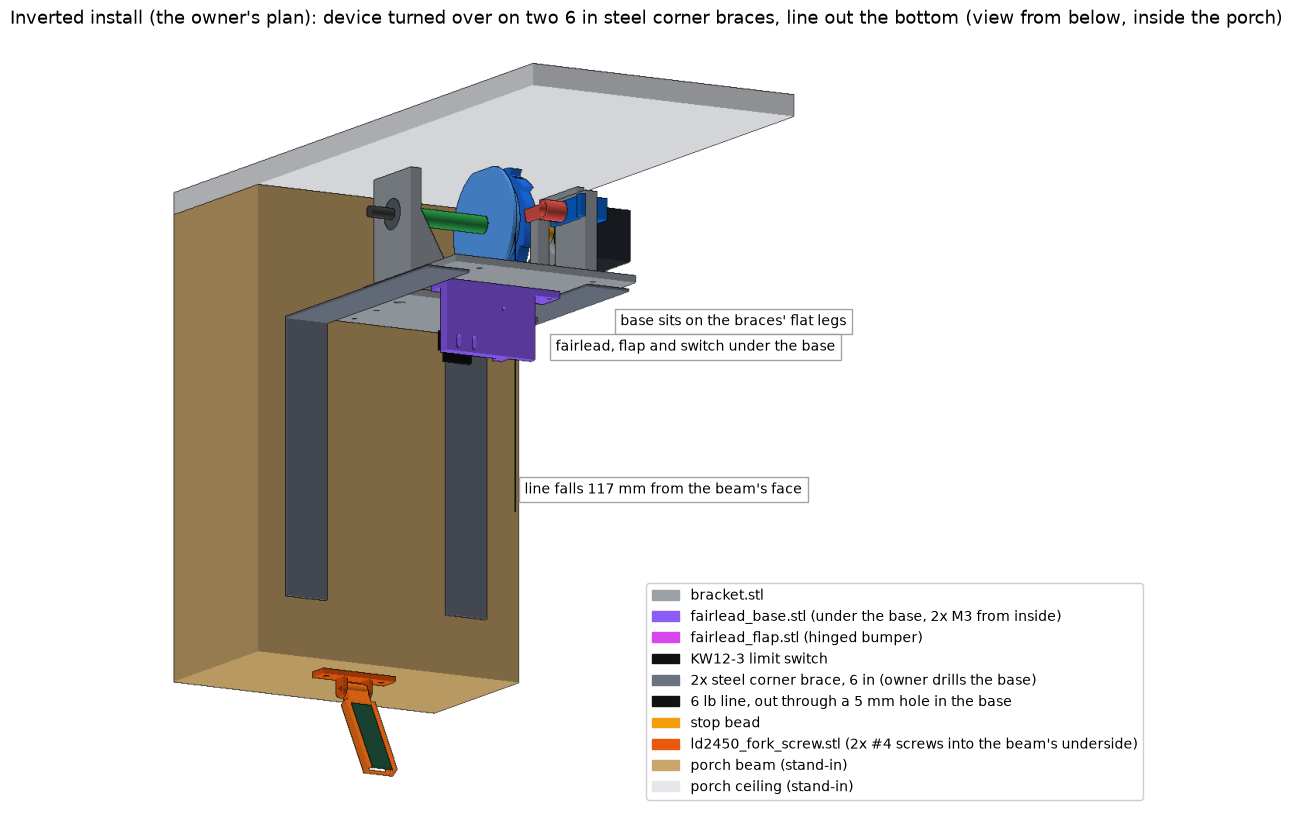
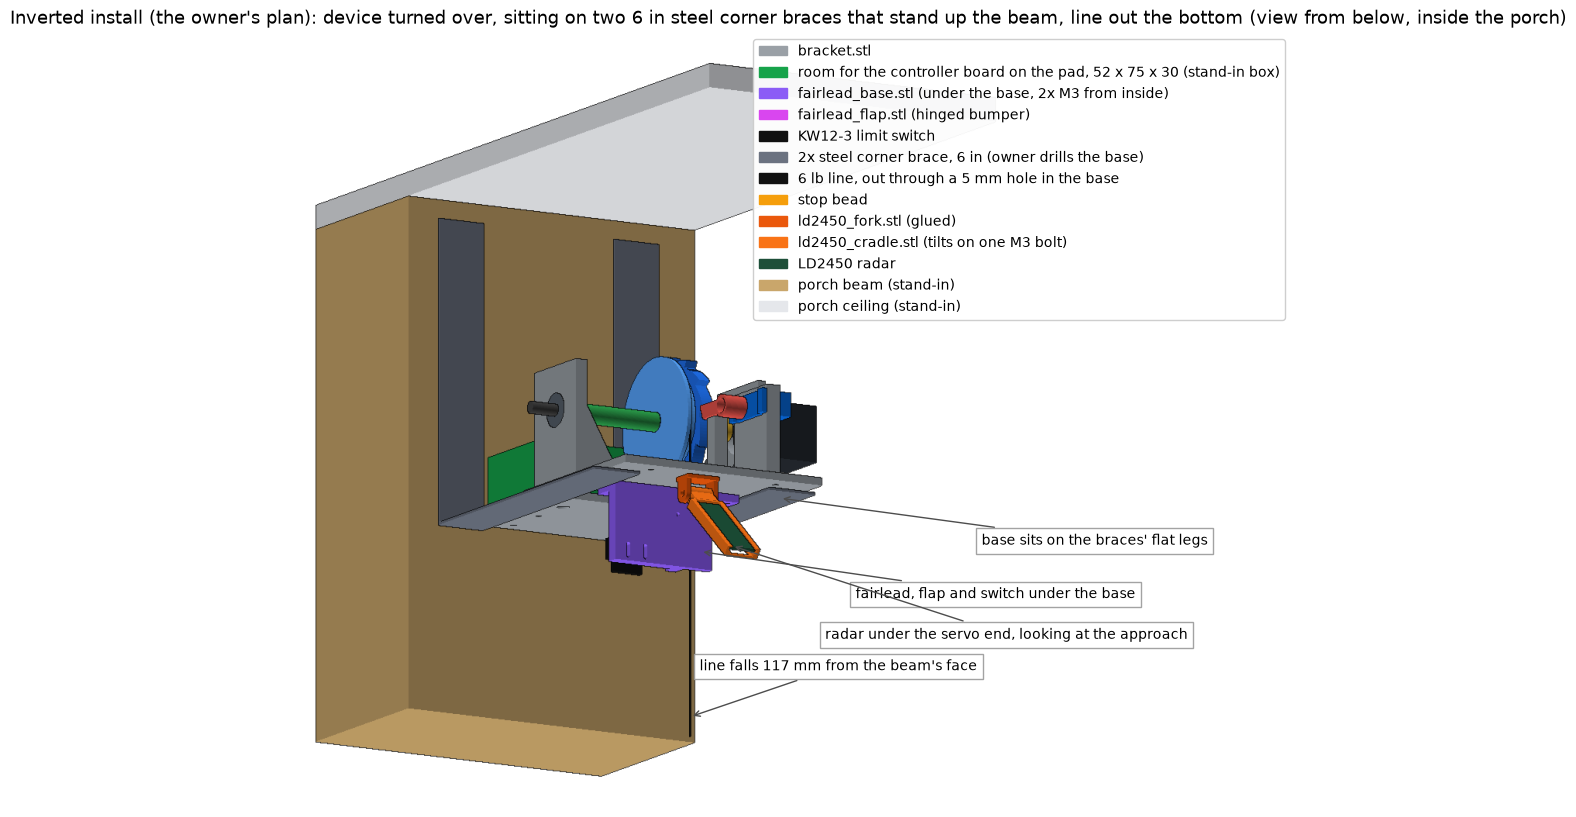
Inverted mockup, owner's corrections: radar on the device under the servo end, braces stand up the beam (base 160 below the ceiling), electronics room checked on the pad, labels point at their parts

Changed region(s): [[0.0, 0.0, 1.0, 0.9792], [0.6192, 0.6426, 0.774, 0.6732]]

diff --git a/cad/inverted.py b/cad/inverted.py
@@ -10,7 +10,7 @@ base, which is now the floor side.
 What is new:
   bracket_inverted   the printed bracket with 5 holes the owner drills: 5 mm for the line at
                      (x 25, z 45); 2x 3.4 at (x 32, z 28) and (x 32, z 83) for the fairlead block;
-                     nothing else. (The radar goes under the beam, so no holes for it.)
+                     nothing else. (The radar fork is glued, so no holes for it.)
   fairlead_base      the fairlead + flap hard stop + KW12-3 switch plate, as a block on the base's
                      OUTER face at the line. Built from doc 09's geometry moved by one rigid
                      transform T (180 degrees about z, then +69 in y): the same flared bore, the
@@ -18,8 +18,14 @@ What is new:
                      Two M3 screws from inside the base thread into 2.5 pilots.
   corner braces      2x steel L brackets, 6 in legs, 1 in wide (stand-ins for pictures and clash
                      checks, no holes: the owner drills the base to the braces' own holes, 2026-09-27),
-                     at the base's ends, vertical legs screwed to the beam.
-  radar              ld2450_fork_screw (cad/wall_mount.py) under the beam, looking out and down.
+                     at the base's ends. The owner's orientation (2026-09-27): the flat leg under the
+                     base, the other leg standing UP the beam's face beside the device, screwed to it.
+  radar              part of the device (owner 2026-09-27): the same ld2450_fork, cradle and radar,
+                     turned over and glued under the base at the servo end, looking back toward the
+                     beam (the approach) and down, under the fairlead block.
+  electronics        the controller board stays where it is in the ceiling design: on the pad, the
+                     base's device side at the beam end, now facing up. A 52 x 75 x 30 stand-in box
+                     is clash-checked.
 
 Coordinates: the device's own frame from generate.py (y = 0 the base's outer face, +y INTO the
 device). In the porch, +y is UP. The ceiling is at y = CEILING_Y above the device's top; the beam's
@@ -43,11 +49,12 @@ BRACE_LEG, BRACE_W, BRACE_T = 152.0, 25.0, 1.5  # 6 in x 1 in steel corner brace
 BEAM_GAP = 4.0                       # pad edge (x -88) to the beam's face
 X_BEAM = -88.0 - BEAM_GAP            # -92
 DEVICE_TOP = 62.0                    # bearing plate top; the tallest thing above the base
-CEILING_Y = DEVICE_TOP + 8.0         # base sits 70 below the ceiling
+CEILING_Y = BRACE_LEG + 8.0          # the braces' upright legs stand under the ceiling: base 160 below it
 BEAM_DEPTH = 254.0
 BEAM_BOTTOM_Y = CEILING_Y - BEAM_DEPTH   # -184
-RADAR_X_IN = 25.0
-RADAR_TILT = 30.0
+RADAR_TILT = 50.0                    # doc 03's tilt, below level; the cradle adjusts
+RADAR_SHIFT = (130.0, 4.0)           # after turning over: fork plate from x -74..-62 to x 56..68, glue face onto y 0
+PCB_BOX = (-88.0, -36.0, 4.0, 34.0, 18.0, 93.0)   # electronics stand-in on the pad (x, y, z ranges)
 
 # T: doc 09's fairlead geometry (line at x -25, bore y 69..78.5, flap at y 84 below it) moved to
 # the base's outer face at x +25: 180 degrees about z (x -> -x, y -> -y), then y + 69 so the bore's
@@ -113,20 +120,25 @@ def corner_braces():
     for i, zc in enumerate(BRACE_Z):
         z0, z1 = zc - BRACE_W / 2, zc + BRACE_W / 2
         horiz = G.bx(X_BEAM, X_BEAM + BRACE_LEG, -BRACE_T, 0, z0, z1)
-        vert = G.bx(X_BEAM, X_BEAM + BRACE_T, -BRACE_LEG, 0, z0, z1)
+        vert = G.bx(X_BEAM, X_BEAM + BRACE_T, -BRACE_T, BRACE_LEG - BRACE_T, z0, z1)   # stands UP the beam beside the device
         out[f"brace_{i}"] = G.U(horiz, vert)
     return out
 
 
-def radar_under_beam(tilt=RADAR_TILT):
-    """Fork with screw holes on the beam's underside, looking toward the approach (-x) and down (-y here)."""
+def radar_on_base(tilt=RADAR_TILT):
+    """The ceiling design's fork, cradle and radar turned over (180 degrees about z) and moved under the
+    base's servo end: glued to the base's outer face, looking toward the beam (-x) and down (-y)."""
+    import sensor_mount as S
     R = trimesh.transformations.rotation_matrix(math.pi, [0, 0, 1])
     out = {}
-    for k, m in (("ld2450_fork_screw", WM.ld2450_fork_screw()), ("ld2450_cradle", __import__("sensor_mount").ld2450_cradle(tilt)),
-                 ("ld2450_radar", __import__("sensor_mount").ld2450_board(tilt))):
-        mm = m.copy(); mm.apply_transform(R)
-        mm.apply_translation([X_BEAM - RADAR_X_IN + 68.0, BEAM_BOTTOM_Y + 4.0, 0]); out[k] = mm   # rotated pivot at x -68, plate face y -4
+    for k, m in (("ld2450_fork", S.ld2450_fork()), ("ld2450_cradle", S.ld2450_cradle(tilt)), ("ld2450_radar", S.ld2450_board(tilt))):
+        mm = m.copy(); mm.apply_transform(R); mm.apply_translation([RADAR_SHIFT[0], RADAR_SHIFT[1], 0]); out[k] = mm
     return out
+
+
+def pcb_box():
+    x0, x1, y0, y1, z0, z1 = PCB_BOX
+    return G.bx(x0, x1, y0, y1, z0, z1)
 
 
 def line_and_bead(drop=120.0):
@@ -139,7 +151,7 @@ def assembly_inverted():
     A = {k: v for k, v in G.assembly().items() if k not in ("bracket", "fairlead_body", "fairlead_flap", "switch_kw12") and not k.startswith("ld2450")}
     A["bracket"] = bracket_inverted()
     A["fairlead_base"] = fairlead_base(); A["fairlead_flap"] = flap_installed(); A["switch_kw12"] = switch_installed()
-    A.update(corner_braces()); A.update(radar_under_beam())
+    A.update(corner_braces()); A.update(radar_on_base()); A["electronics"] = pcb_box()
     return A
 
 
@@ -163,14 +175,26 @@ if __name__ == "__main__":
     print(f"mounting face is one plane at y 0: {abs(body.bounds[1][1]) < 0.01} (nothing above y 0; contact area {body.area_faces[at0].sum():.0f} mm2)")
     A = assembly_inverted()
     print("--- clash check, overlap volume in mm3 (none listed = clear) ---")
-    new = ["fairlead_base", "fairlead_flap", "switch_kw12", "brace_0", "brace_1", "ld2450_fork_screw", "ld2450_cradle", "ld2450_radar"]
+    new = ["fairlead_base", "fairlead_flap", "switch_kw12", "brace_0", "brace_1", "ld2450_fork", "ld2450_cradle", "ld2450_radar", "electronics"]
     bad = False
     for k in new:
         for j, part in A.items():
-            if j == k or {k, j} <= {"fairlead_flap", "switch_kw12"}: continue      # the roller rests on the flap tail by design
+            if j == k or {k, j} <= {"fairlead_flap", "switch_kw12"} or {k, j} <= {"ld2450_fork", "ld2450_cradle", "ld2450_radar"}: continue   # roller on flap tail; radar sits in its cradle
             v = G.I(A[k], part).volume
             if v > 0.5: print(f"CLASH {k} x {j}: {v:.1f}"); bad = True
-    if not bad: print("block, flap, switch, braces and radar clear every part")
+    if not bad: print("block, flap, switch, braces, radar and the 52 x 75 x 30 electronics box clear every part")
+    # radar view: rays over +-60 across and +-35 along the board from its centre; what share hits the device or its braces
+    Rb = A["ld2450_radar"]; t = math.radians(RADAR_TILT)
+    nb = np.array([-math.cos(t), -math.sin(t), 0.0]); ab = np.array([math.sin(t), -math.cos(t), 0.0]); zb = np.array([0, 0, 1.0])
+    c = Rb.bounds.mean(0) + nb * 2.0
+    solid = G.U(*[m for k2, m in A.items() if not k2.startswith("ld2450") and k2 != "electronics"])
+    dirs = [math.cos(math.radians(e)) * (math.cos(math.radians(a2)) * nb + math.sin(math.radians(a2)) * zb) + math.sin(math.radians(e)) * ab
+            for a2 in range(-60, 61, 5) for e in range(-35, 36, 5)]
+    dirs = np.array(dirs); hit = solid.ray.intersects_any(np.repeat([c], len(dirs), 0), dirs)
+    core = [abs(a2) <= 20 and abs(e) <= 15 for a2 in range(-60, 61, 5) for e in range(-35, 36, 5)]
+    print(f"radar view blocked by the device: {100 * hit.mean():.0f}% of the full cone, {100 * hit[core].mean():.0f}% of the middle (+-20 by +-15)")
+    yb = c[1] + nb[1] * (X_BEAM - c[0]) / nb[0]
+    print(f"radar centre line reaches the beam's face {CEILING_Y - yb:.0f} below the ceiling (beam bottom edge {BEAM_DEPTH:.0f}): {'passes under the beam' if CEILING_Y - yb > BEAM_DEPTH else 'HITS the beam'}")
     path = G.vcyl(1.0, 100, -60, LINE_X, LINE_Z)                                    # 2 mm rod from the barrel down past the flap
     lb, lf, lk = G.I(path, body).volume, G.I(path, flap).volume, G.I(path, A["bracket"]).volume
     print(f"line path clear through the base hole: {lk < 0.01} ({lk:.2f}), the block's bore: {lb < 0.01} ({lb:.2f}), the flap slot: {lf < 0.01} ({lf:.2f})")

diff --git a/cad/render.py b/cad/render.py
@@ -14,7 +14,7 @@ COL = {"bracket": "#9aa0a6", "spool_ratchet": "#1f6feb", "spool_body": "#58a6ff"
        "wall_mount": "#b45309", "ld2450_fork_screw": "#ea580c", "beam": "#c9a66b", "ceiling": "#e5e7eb",
        "bolt": "#57606a", "nut": "#374151", "screw": "#8a6d3b",
        "hinge_plate": "#b45309", "hinge_clip": "#d97706", "pin": "#57606a", "tie_bar": "#92400e", "strut": "#f59e0b",
-       "fairlead_base": "#8b5cf6", "brace": "#6b7280", "line": "#111111", "bead": "#f59e0b"}
+       "fairlead_base": "#8b5cf6", "brace": "#6b7280", "line": "#111111", "bead": "#f59e0b", "electronics": "#16a34a"}
 LABEL = {"bracket": "bracket.stl", "spool_ratchet": "spool_ratchet.stl", "spool_body": "spool_body.stl + HF0612",
          "fairlead_body": "fairlead_body.stl", "fairlead_flap": "fairlead_flap.stl (hinged bumper)",
          "switch_kw12": "KW12-3 limit switch", "finger": "finger.stl on the SG90 spline", "rod_6mm": "6 mm rod, 100 mm",
@@ -28,7 +28,8 @@ LABEL = {"bracket": "bracket.stl", "spool_ratchet": "spool_ratchet.stl", "spool_
          "pin": "pins: 2x M3 x 25 (hinge), 4x M3 x 20 (struts), nuts", "tie_bar": "tie_bar.stl (2x M3 through the base's x 65 holes)",
          "strut": "strut.stl x2 (the 45 degree bar, pushed)",
          "fairlead_base": "fairlead_base.stl (under the base, 2x M3 from inside)", "brace": "2x steel corner brace, 6 in (owner drills the base)",
-         "line": "6 lb line, out through a 5 mm hole in the base", "bead": "stop bead"}
+         "line": "6 lb line, out through a 5 mm hole in the base", "bead": "stop bead",
+         "electronics": "room for the controller board on the pad, 52 x 75 x 30 (stand-in box)"}
 
 def rview(m):
     # render world: X = x, Y = z (rod), Z = -y (floor is down, ceiling mount on top)
@@ -38,13 +39,16 @@ def save(img, name, title, labels=(), keys=(), loc="upper right"):
     import matplotlib.patches as mp
     fig, ax = plt.subplots(figsize=(img.shape[1] / 100, img.shape[0] / 100 + 0.5))
     ax.imshow(img); ax.set_axis_off(); ax.set_title(title, fontsize=13)
-    for (x, y, t) in labels: ax.text(x, y, t, fontsize=10, bbox=dict(fc="white", ec="0.6", alpha=0.9))
+    for lab in labels:
+        x, y, t = lab[:3]
+        if len(lab) == 5: ax.annotate(t, xy=lab[3:], xytext=(x, y), fontsize=10, bbox=dict(fc="white", ec="0.6", alpha=0.9), arrowprops=dict(arrowstyle="->", color="0.3"))   # label with a pointer to the part
+        else: ax.text(x, y, t, fontsize=10, bbox=dict(fc="white", ec="0.6", alpha=0.9))
     if keys:
         ax.legend(handles=[mp.Patch(color=COL[k], label=LABEL[k]) for k in keys], loc=loc, fontsize=10, framealpha=0.95)
     fig.savefig(os.path.join(IMG, name), dpi=100, bbox_inches="tight"); plt.close(fig)
 
-def lbl(proj, pt, dx, dy, text):
-    x, y, _ = proj(np.array([pt])); return (x[0] + dx, y[0] + dy, text)
+def lbl(proj, pt, dx, dy, text, arrow=False):
+    x, y, _ = proj(np.array([pt])); return (x[0] + dx, y[0] + dy, text) + ((x[0], y[0]) if arrow else ())
 
 def assembly_png():
     A = G.assembly()
@@ -206,17 +210,18 @@ def wall_exploded_png():
          (), keys=["wall_mount", "nut", "bolt", "screw", "bracket"])
 
 def inverted_png():
-    """The owner's inverted install: device turned over on two 6 in corner braces, line out through the base."""
+    """The owner's inverted install: device turned over on two 6 in corner braces standing up the beam, line out through the base."""
     import inverted as INV
     A = INV.assembly_inverted(); A.update(INV.line_and_bead())
-    A.update({k: G.I(m, G.bx(-200, 250, -300, 100, -25, 135)) for k, m in INV.porch().items()})   # a short length of beam and ceiling, so the device reads
+    A.update({k: G.I(m, G.bx(-200, 250, -300, 200, -25, 135)) for k, m in INV.porch().items()})   # a short length of beam and ceiling, so the device reads
     key = lambda k: "brace" if k.startswith("brace") else k
     img, proj = raster.render([(INV.view_inv(m), COL[key(k)]) for k, m in A.items()], elev=-12, azim=-30, W=1300, H=1000)
-    labels = [lbl(proj, (INV.LINE_X, -INV.LINE_Z, -110), 12, 0, f"line falls {INV.LINE_X - INV.X_BEAM:.0f} mm from the beam's face"),
-              lbl(proj, (INV.X_BEAM + 140, -INV.BRACE_Z[0], -2), 30, 40, "base sits on the braces' flat legs"),
-              lbl(proj, (INV.LINE_X + 10, -INV.LINE_Z, -30), 40, 10, "fairlead, flap and switch under the base")]
-    save(img, "inverted_install.png", "Inverted install (the owner's plan): device turned over on two 6 in steel corner braces, line out the bottom (view from below, inside the porch)",
-         labels, keys=["bracket", "fairlead_base", "fairlead_flap", "switch_kw12", "brace", "line", "bead", "ld2450_fork_screw", "beam", "ceiling"], loc="lower right")
+    labels = [lbl(proj, (INV.LINE_X, -INV.LINE_Z, -110), 12, -60, f"line falls {INV.LINE_X - INV.X_BEAM:.0f} mm from the beam's face", True),
+              lbl(proj, (INV.X_BEAM + 140, -INV.BRACE_Z[0], -2), 260, 60, "base sits on the braces' flat legs", True),
+              lbl(proj, (INV.LINE_X + 10, -INV.LINE_Z, -30), 200, 60, "fairlead, flap and switch under the base", True),
+              lbl(proj, (95, -62, -40), 120, 120, "radar under the servo end, looking at the approach", True)]
+    save(img, "inverted_install.png", "Inverted install (the owner's plan): device turned over, sitting on two 6 in steel corner braces that stand up the beam, line out the bottom (view from below, inside the porch)",
+         labels, keys=["bracket", "electronics", "fairlead_base", "fairlead_flap", "switch_kw12", "brace", "line", "bead", "ld2450_fork", "ld2450_cradle", "ld2450_radar", "beam", "ceiling"], loc="upper right")
 
 if __name__ == "__main__":
     base_png(); lock_png(); assembly_png(); exploded_png(); steps_png(); fairlead_png(); fairlead_exploded_png(); wall_png(); inverted_png()

diff --git a/docs/handoff_inverted_mount.md b/docs/handoff_inverted_mount.md
@@ -6,7 +6,12 @@
 
 Steps 1 and 2 below are done (2026-09-27). `python inverted.py` passes every check: block watertight, mounting face one plane at y 0, no clashes (braces included), line path clear through the base hole, bore and flap slot, spool clearance 0, hard stop 14.75 degrees, roller push 4.33 (needs 3.4), both screw heads clear. Two fixes were needed: the braces became 6 in stand-ins at z 8 and z 106 with no holes, and the fairlead block was trimmed to z 24 to 93 (far rib dropped) to clear them; the face check was rewritten because it wrongly counted the block's own inner steps as mounting faces. `render.inverted_png()` makes the picture above. The full rebuild (`tools\regen_cad.ps1`) was not run: `generate.py` is untouched, and it rewrites every image while another session was live.
 
-Owed from the owner: approve the mockup (then step 3), and say where along the base the two braces go (drawn at the ends, z 8 and z 106; the 106 one hangs 8 mm past the base's end).
+Owner's corrections, 2026-09-27, applied the same day and re-checked (all checks above still pass):
+- "the mmwave sensor must be attached and part of the device": the ceiling design's fork, cradle and radar are turned over and glued under the base's servo end, looking back toward the beam and down at doc 03's 50 degree tilt. The report now shows 0% of the radar's view blocked by the device, and its centre line passing under the beam's bottom edge (403 below the ceiling against 254). The radar hangs about 30 mm past the base's far end. The hanging spider sits in its view.
+- "does that design allow room for the pcb board and esp32": yes. The pad (the base's device side at the beam end, now facing up) is untouched; a 52 x 75 x 30 stand-in box there clears every part.
+- Braces "rotated the other way": the flat leg under the base, the other leg standing UP the beam's face beside the device. The base now sits 160 below the ceiling (was 70); the bead rests 179 below it; the beam's bottom edge is 254.
+
+Owed from the owner: approve the mockup (then step 3), and say where along the base the two braces go (drawn at the ends, z 8 and z 106; the 106 one hangs 8 mm past the base's end). An 8 in brace's flat leg would reach 36 mm past the base's far end.
 
 ## First job: the mockup, for the owner to check
 
